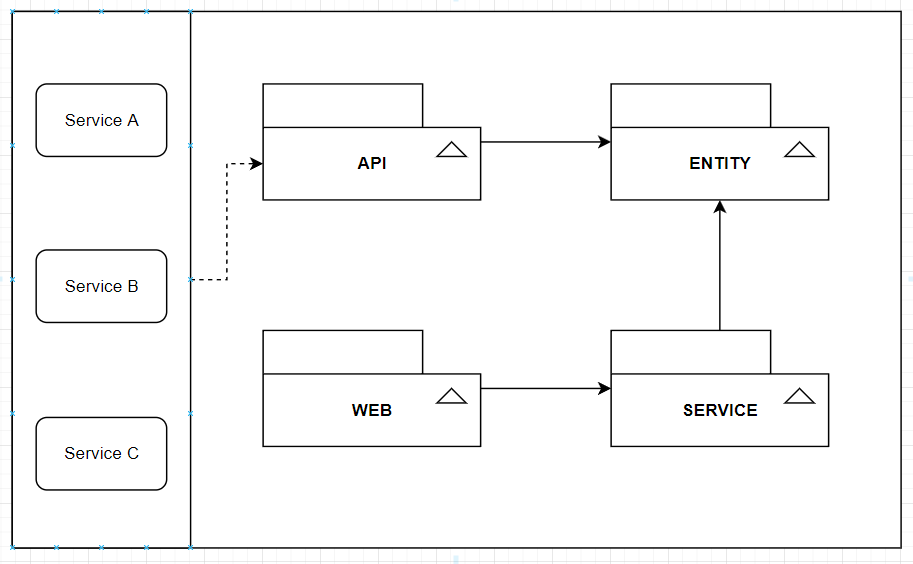
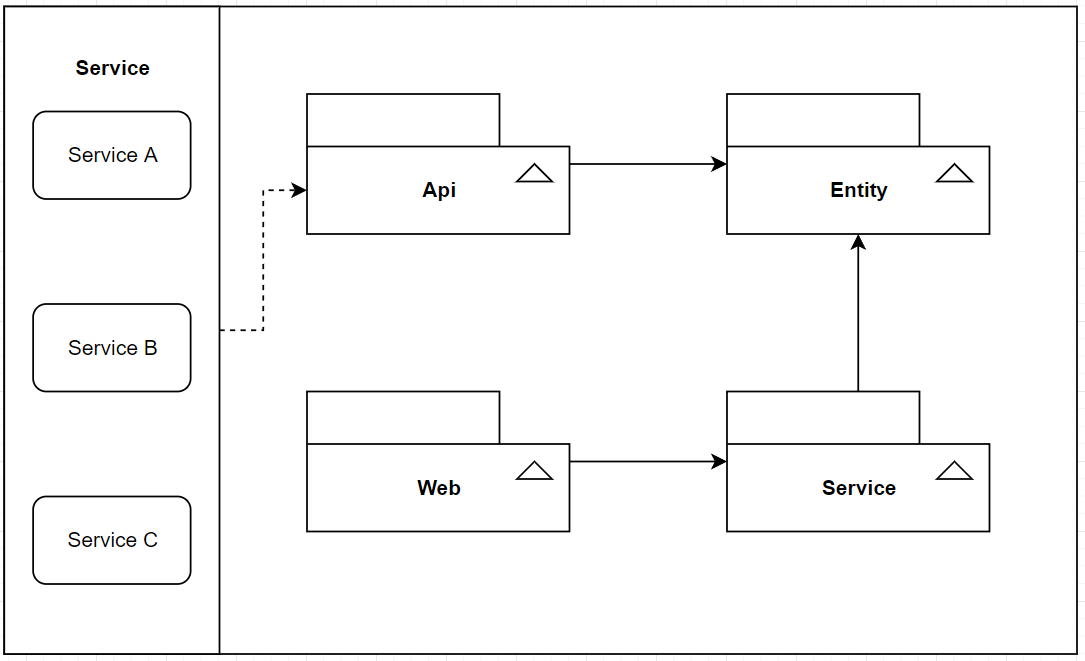
build:添加项目描述

diff --git a/README.md b/README.md
@@ -1,5 +1,5 @@
-# stagging-basic-cloud
-#### :laughing:组件说明
+# 基础组件
+#### 组件说明
 | 组件名称          | 说明                              | 进度          |
 |:--------------|:--------------------------------|-------------|
 | basic-common  | 业务基础组件                          | development |
@@ -13,3 +13,8 @@
 
 ![image](https://github.com/lanrenspace/stagging-basic-cloud/blob/master/design/model.png)
 
+- Service：其他业务服务
+- Entity：业务对象实体（PO、VO、DTO）服务常量定义（CONTSTANT）
+- Service：具体业务逻辑处理实现
+- Api：业务对外提供服务API定义
+- Web：业务服务提供者
